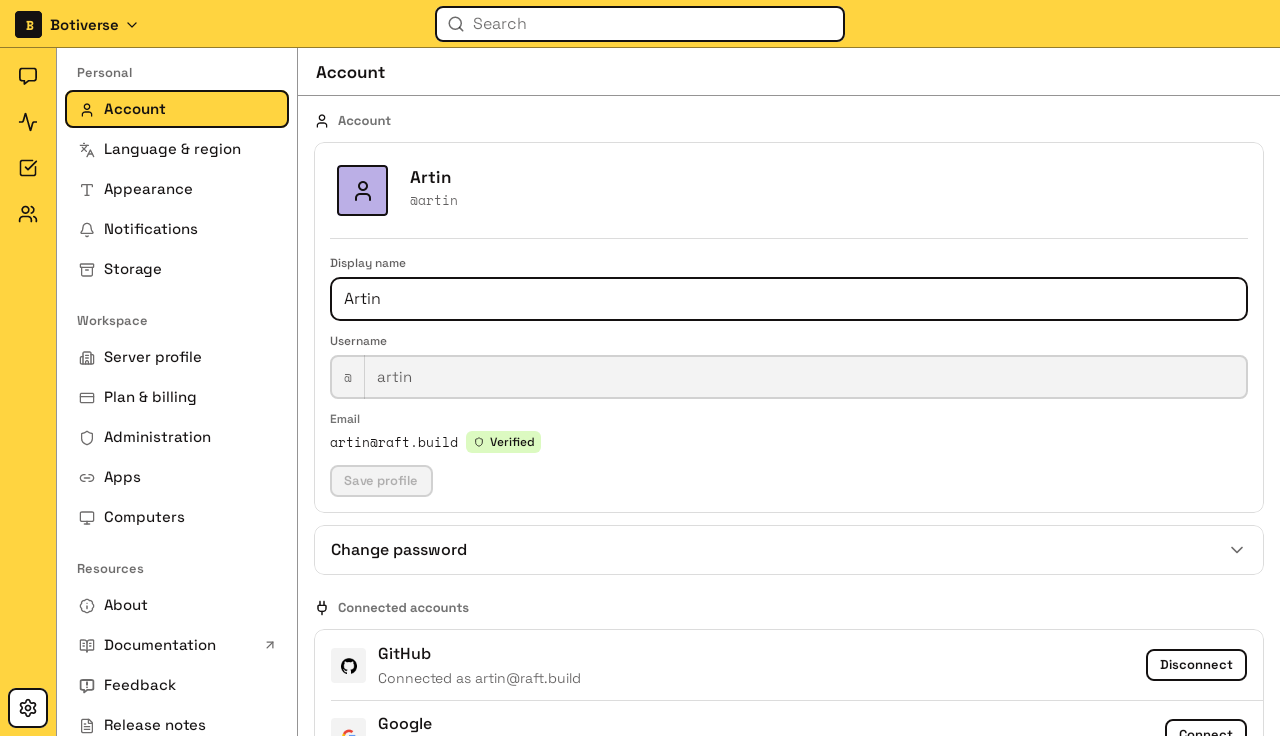
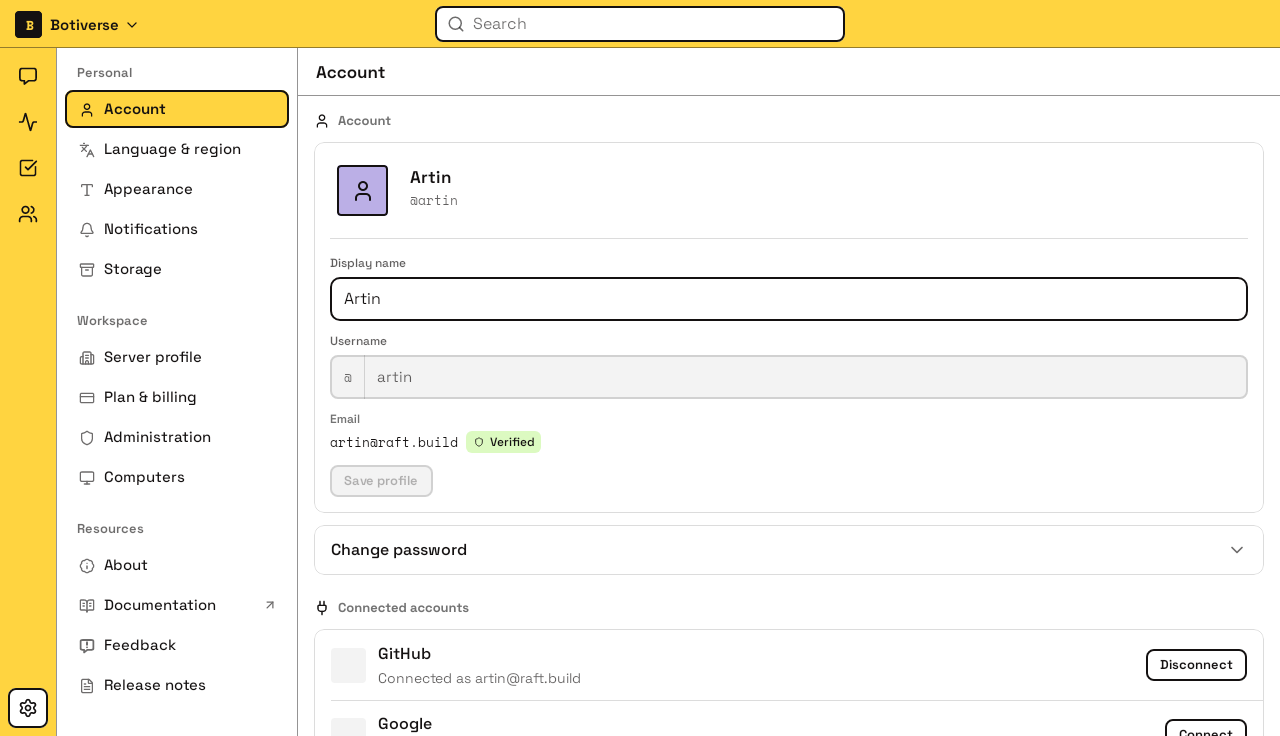
fix(apps): refresh App detail v6 Part 1 screenshot goldens and fix spinner semantics assertion
- Refresh `settings.wide.account.png` (reflecting Settings > Applications removal in #5973) and `thread.app-link-previews.png` (reflecting "Show previews" / "Keep plain links" consent copy in #5973).
- Assert `RaftSpinner(contentDescription = loadingLabel)` via `onNodeWithContentDescription(..., useUnmergedTree = true)` in `ThreadAppLinkConsentPromptUiTest` (matching `RaftButtonBox` loading semantics) and cover both "Turning on previews…" and "Allowing…" progress descriptions.

diff --git a/compose/shared/src/androidUnitTest/kotlin/build/raft/app/ThreadAppLinkConsentPromptUiTest.kt b/compose/shared/src/androidUnitTest/kotlin/build/raft/app/ThreadAppLinkConsentPromptUiTest.kt
@@ -3,7 +3,9 @@ package build.raft.app
 import androidx.compose.ui.test.ExperimentalTestApi
 import androidx.compose.ui.test.assertCountEquals
 import androidx.compose.ui.test.assertIsDisplayed
+import androidx.compose.ui.test.onAllNodesWithContentDescription
 import androidx.compose.ui.test.onAllNodesWithText
+import androidx.compose.ui.test.onNodeWithContentDescription
 import androidx.compose.ui.test.onNodeWithText
 import build.raft.app.components.RaftDesignSystemTheme
 import build.raft.app.data.AppLinkConsentStatus
@@ -73,6 +75,29 @@ class ThreadAppLinkConsentPromptUiTest {
         }
 
     @Test
+    fun linkPreviewConsentPromptUsesTurningOnProgressDescription(): Unit =
+        runRobolectricComposeUiTest {
+            val app = AppLinkPromptApp(id = "client-linear", name = "Linear", icon = null)
+            setContent {
+                RaftDesignSystemTheme {
+                    ThreadAppLinkConsentPrompt(
+                        app = app,
+                        url = "https://linear.app/raft/issue/RAFT-812",
+                        status = AppLinkConsentStatus.Allowing,
+                        onDismiss = {},
+                        onAllow = {},
+                        onDecline = {},
+                        onOpenLink = {},
+                        inWindow = false,
+                    )
+                }
+            }
+            waitForIdle()
+            onNodeWithContentDescription("Turning on previews…", useUnmergedTree = true).assertIsDisplayed()
+            onAllNodesWithContentDescription("Allowing…", useUnmergedTree = true).assertCountEquals(0)
+        }
+
+    @Test
     fun messageCardConsentPromptKeepsAllowingProgressLabel(): Unit =
         runRobolectricComposeUiTest {
             setContent {
@@ -87,7 +112,7 @@ class ThreadAppLinkConsentPromptUiTest {
                 }
             }
             waitForIdle()
-            onNodeWithText("Allowing…", useUnmergedTree = true).assertIsDisplayed()
-            onAllNodesWithText("Turning on previews…", useUnmergedTree = true).assertCountEquals(0)
+            onNodeWithContentDescription("Allowing…", useUnmergedTree = true).assertIsDisplayed()
+            onAllNodesWithContentDescription("Turning on previews…", useUnmergedTree = true).assertCountEquals(0)
         }
 }
